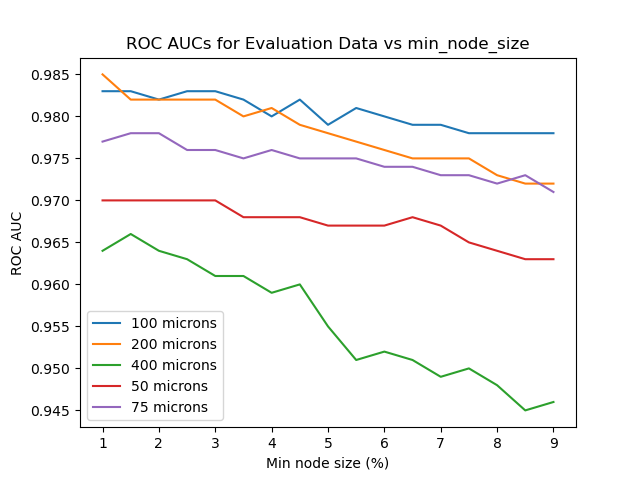
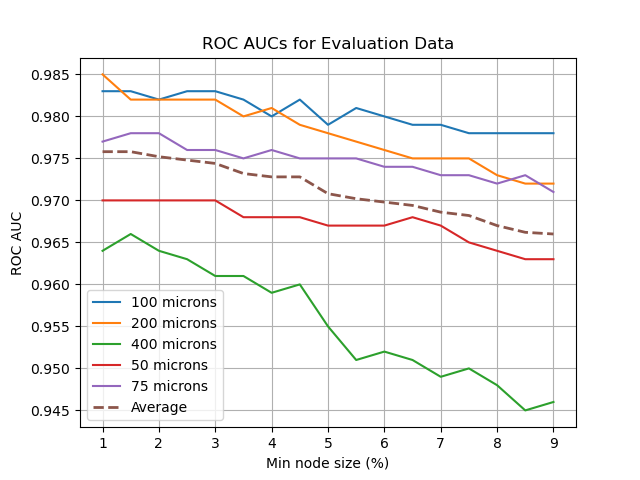
:sparkles: Add average to AUC plots

diff --git a/code/plot_aucs.py b/code/plot_aucs.py
@@ -75,8 +75,8 @@ def apply_filters(rows, filters):
             filtered_rows.append(row)
     return filtered_rows
 
+# Sort numeric values naturally, strings lexicographically
 def sort_key(x):
-    # numeric sorts naturally; strings sorted lexicographically
     return (0, x) if isinstance(x, (int, float)) else (1, str(x))
 
 def group_rows(rows, group_key):
@@ -90,9 +90,10 @@ def group_rows(rows, group_key):
         grouped[group_value].append(row)
     return grouped
 
-def plot_series(rows, x_key, y_key, group_key, title, out_png, x_label=None):
+def plot_series(rows, x_key, y_key, group_key, title, out_png, x_label=None, show_average=True):
     grouped = group_rows(rows, group_key)
     fig, ax = plt.subplots()
+    avg_bin = {}
     for group_value in sorted(grouped.keys(), key=sort_key):
         points = grouped[group_value]
         xs     = []
@@ -106,6 +107,10 @@ def plot_series(rows, x_key, y_key, group_key, title, out_png, x_label=None):
                 continue
             xs.append(x)
             ys.append(y)
+            if show_average:
+                if x not in avg_bin:
+                    avg_bin[x] = []
+                avg_bin[x].append(y)
 
         # sort points by x
         combined = list(zip(xs, ys))
@@ -117,11 +122,31 @@ def plot_series(rows, x_key, y_key, group_key, title, out_png, x_label=None):
             ys_sorted.append(y)
         ax.plot(xs_sorted, ys_sorted, "-", label=str(group_value))
 
+    # Plot averages
+    if show_average and avg_bin:
+        x_vals = sorted(avg_bin.keys(), key=sort_key)
+        avg_vals = []
+        for x in x_vals:
+            ys_for_x = avg_bin[x]
+            y_sum    = 0.0
+            y_count  = 0
+            for y in ys_for_x:
+                y_sum   += y
+                y_count += 1
+            avg_vals.append(y_sum / y_count)
+        avg_x = []
+        avg_y = []
+        for i in range(len(x_vals)):
+            avg_x.append(x_vals[i])
+            avg_y.append(avg_vals[i])
+        ax.plot(avg_x, avg_y, "--", linewidth=2, label="Average")
+
     ax.set_xlabel(x_label if x_label else x_key)
     ax.set_ylabel("ROC AUC")
     ax.set_title(title)
     ax.legend()
 
+    plt.grid()
     plt.savefig(out_png)
 
 def main():
@@ -145,11 +170,7 @@ def main():
 
     # Nice default group labels for thickness
     group_label = args.group
-    if args.group == "thickness_mu":
-        # Set legend to "50 microns" etc by overriding label formatting
-        pass
 
-    # If grouping by thickness_mu, label it nicely
     if args.group == "thickness_mu":
         for r in rows:
             if r.get("thickness_mu") is not None:
@@ -161,7 +182,7 @@ def main():
             args.x,
             "train_auc",
             args.group,
-            f"ROC AUCs for Training Data vs {args.x}",
+            "ROC AUCs for Training Data",
             f"roc-auc-training-vs-{args.x}.png",
             args.xlabel
         )
@@ -172,7 +193,7 @@ def main():
             args.x,
             "eval_auc",
             args.group,
-            f"ROC AUCs for Evaluation Data vs {args.x}",
+            "ROC AUCs for Evaluation Data",
             f"roc-auc-eval-vs-{args.x}.png",
             args.xlabel
         )
